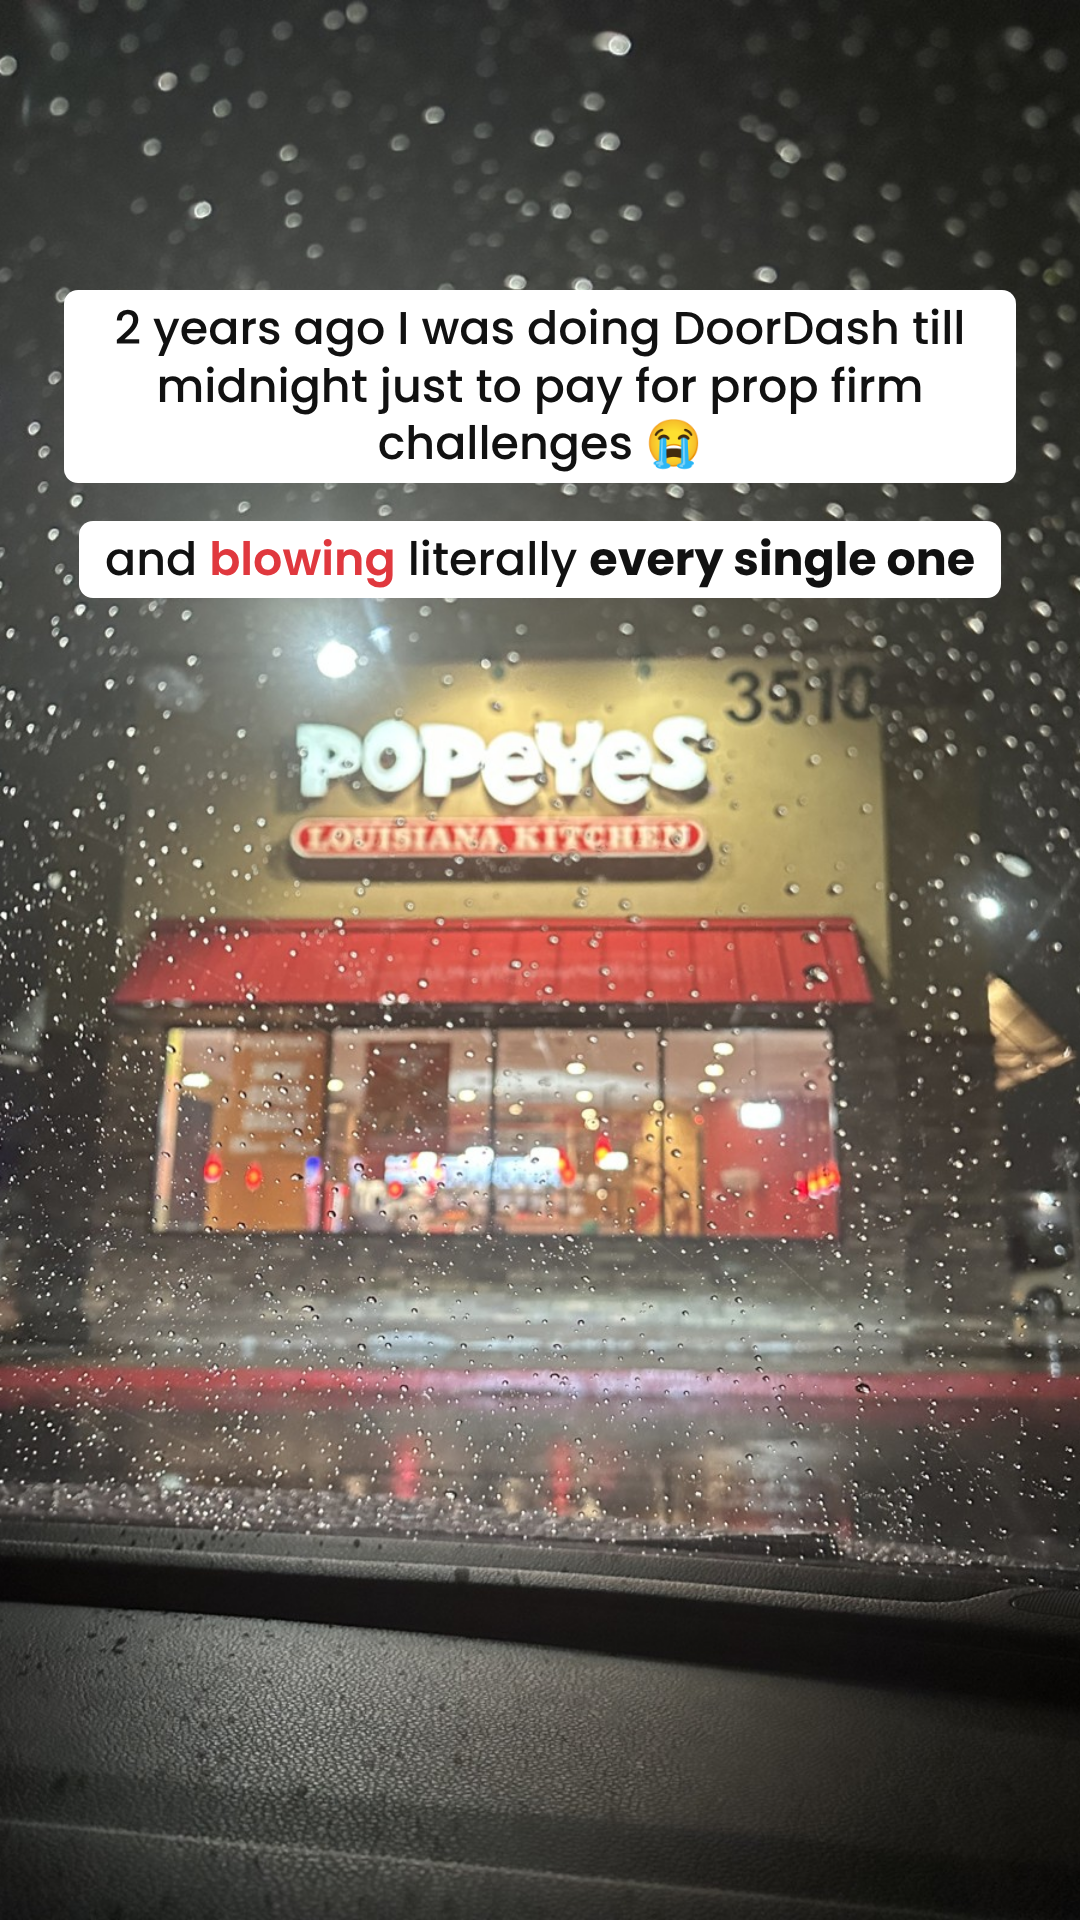
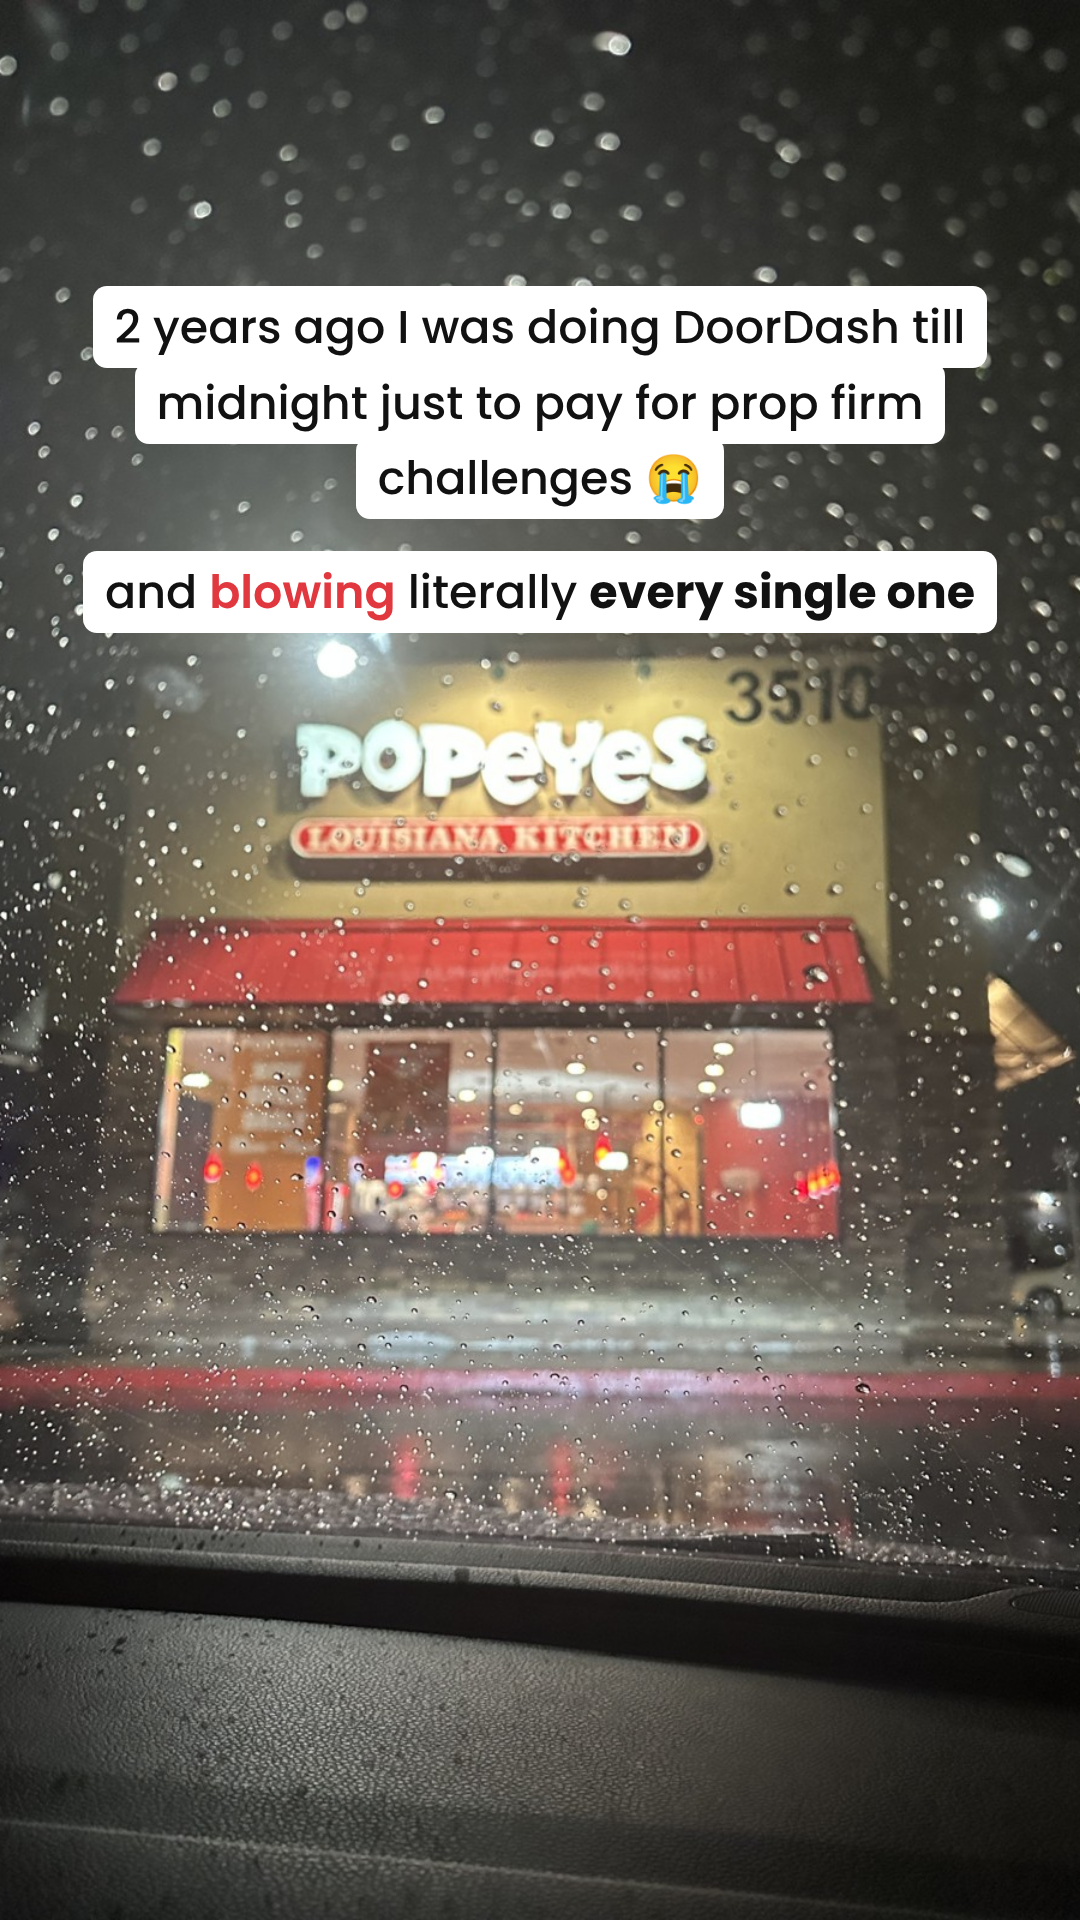
5 Mistakes: white boxes hug each wrapped line (IG highlight style)
Claude-Session: https://claude.ai/code/session_015aTEPXVumuzpUDhw5jFPqj

Changed region(s): [[0.0611, 0.125, 0.9472, 0.3438]]

diff --git a/sequences/2026-11-23_soft_5-mistakes-video/frames/04.html b/sequences/2026-11-23_soft_5-mistakes-video/frames/04.html
@@ -1,1 +1,1 @@
-<!doctype html><html><head><meta charset='utf-8'><link href='https://fonts.googleapis.com/css2?family=Poppins:wght@500;600;700&display=swap' rel='stylesheet'><link href='style.css' rel='stylesheet'></head><body><img class='bg' src='../../../03-backgrounds-larp/backgrounds/jean_ivan_11_1779493271_3902994701779115263_45494833154.jpg' style='object-position:50% 50%'><div class='shade' style=''></div><div class='stack' style='top:270px'><span class='l' style='font-size:42px'>over the past 2 years I went from <span class="pain">losing every dollar</span> to my name to owning one of my <span class="hl">dream cars</span> and living in a <span class="hl">high rise</span>, all from day trading</span><div class='gap'></div><span class='l' style='font-size:42px'>so I just recorded the video I wish I had when I started, so you can get there <b>way quicker</b> than I did</span></div><div class='stack' style='top:1230px'><span class='title'>"<span class="hl">5 Mistakes</span> Keeping You From Getting Paid By Prop Firms" 👇</span></div></body></html>
+<!doctype html><html><head><meta charset='utf-8'><link href='https://fonts.googleapis.com/css2?family=Poppins:wght@500;600;700&display=swap' rel='stylesheet'><link href='style.css' rel='stylesheet'></head><body><img class='bg' src='../../../03-backgrounds-larp/backgrounds/jean_ivan_11_1779493271_3902994701779115263_45494833154.jpg' style='object-position:50% 50%'><div class='shade' style=''></div><div class='stack' style='top:270px'><div class='row' style='font-size:42px'><span class='l'>over the past 2 years I went from <span class="pain">losing every dollar</span> to my name to owning one of my <span class="hl">dream cars</span> and living in a <span class="hl">high rise</span>, all from day trading</span></div><div class='gap'></div><div class='row' style='font-size:42px'><span class='l'>so I just recorded the video I wish I had when I started, so you can get there <b>way quicker</b> than I did</span></div></div><div class='stack' style='top:1230px'><span class='title'>"<span class="hl">5 Mistakes</span> Keeping You From Getting Paid By Prop Firms" 👇</span></div></body></html>

diff --git a/sequences/2026-11-23_soft_5-mistakes-video/frames/02.html b/sequences/2026-11-23_soft_5-mistakes-video/frames/02.html
@@ -1,1 +1,1 @@
-<!doctype html><html><head><meta charset='utf-8'><link href='https://fonts.googleapis.com/css2?family=Poppins:wght@500;600;700&display=swap' rel='stylesheet'><link href='style.css' rel='stylesheet'></head><body><img class='bg' src='../../../03-backgrounds-larp/backgrounds/jean_ivan_11_1783644862_3937820383109397696_45494833154.jpg' style='object-position:50% 50%'><div class='shade' style=''></div><div class='stack' style='top:290px'><span class='l' style='font-size:44px'>then I put <span class="hl">$4,000</span> on a live account. <b>every dollar I had</b></span><div class='gap'></div><span class='l' style='font-size:44px'>and <span class="pain">lost it all</span> in one session...</span><div class='gap'></div><span class='l' style='font-size:44px'>my mom looked at me and said "Ivan, quit. go to college."</span><div class='gap'></div><span class='l' style='font-size:44px'>but I believed in trading so <b>I said no.</b></span></div></body></html>
+<!doctype html><html><head><meta charset='utf-8'><link href='https://fonts.googleapis.com/css2?family=Poppins:wght@500;600;700&display=swap' rel='stylesheet'><link href='style.css' rel='stylesheet'></head><body><img class='bg' src='../../../03-backgrounds-larp/backgrounds/jean_ivan_11_1783644862_3937820383109397696_45494833154.jpg' style='object-position:50% 50%'><div class='shade' style=''></div><div class='stack' style='top:290px'><div class='row' style='font-size:44px'><span class='l'>then I put <span class="hl">$4,000</span> on a live account. <b>every dollar I had</b></span></div><div class='gap'></div><div class='row' style='font-size:44px'><span class='l'>and <span class="pain">lost it all</span> in one session...</span></div><div class='gap'></div><div class='row' style='font-size:44px'><span class='l'>my mom looked at me and said "Ivan, quit. go to college."</span></div><div class='gap'></div><div class='row' style='font-size:44px'><span class='l'>but I believed in trading so <b>I said no.</b></span></div></div></body></html>

diff --git a/sequences/2026-11-23_soft_5-mistakes-video/frames/03.html b/sequences/2026-11-23_soft_5-mistakes-video/frames/03.html
@@ -1,1 +1,1 @@
-<!doctype html><html><head><meta charset='utf-8'><link href='https://fonts.googleapis.com/css2?family=Poppins:wght@500;600;700&display=swap' rel='stylesheet'><link href='style.css' rel='stylesheet'></head><body><img class='bg' src='../../../03-backgrounds-larp/backgrounds/jean_ivan_11_1779493271_3902994685639333655_45494833154.jpg' style='object-position:50% 50%'><div class='shade' style=''></div><div class='stack' style='top:280px'><span class='l' style='font-size:44px'>the crazy part?? I wasn't missing info</span><div class='gap'></div><span class='l' style='font-size:44px'>I watched every video, bought every course and knew all the concepts</span><div class='gap'></div><span class='l' style='font-size:44px'>I was just doing <b>5 things wrong</b> every single day</span></div><div class='stack' style='bottom:340px'><span class='l' style='font-size:46px'>and I bet you're doing <b>at least 3 of them</b> rn...</span></div></body></html>
+<!doctype html><html><head><meta charset='utf-8'><link href='https://fonts.googleapis.com/css2?family=Poppins:wght@500;600;700&display=swap' rel='stylesheet'><link href='style.css' rel='stylesheet'></head><body><img class='bg' src='../../../03-backgrounds-larp/backgrounds/jean_ivan_11_1779493271_3902994685639333655_45494833154.jpg' style='object-position:50% 50%'><div class='shade' style=''></div><div class='stack' style='top:280px'><div class='row' style='font-size:44px'><span class='l'>the crazy part?? I wasn't missing info</span></div><div class='gap'></div><div class='row' style='font-size:44px'><span class='l'>I watched every video, bought every course and knew all the concepts</span></div><div class='gap'></div><div class='row' style='font-size:44px'><span class='l'>I was just doing <b>5 things wrong</b> every single day</span></div></div><div class='stack' style='bottom:340px'><div class='row' style='font-size:46px'><span class='l'>and I bet you're doing <b>at least 3 of them</b> rn...</span></div></div></body></html>

diff --git a/sequences/2026-11-23_soft_5-mistakes-video/frames/01.html b/sequences/2026-11-23_soft_5-mistakes-video/frames/01.html
@@ -1,1 +1,1 @@
-<!doctype html><html><head><meta charset='utf-8'><link href='https://fonts.googleapis.com/css2?family=Poppins:wght@500;600;700&display=swap' rel='stylesheet'><link href='style.css' rel='stylesheet'></head><body><img class='bg' src='../../2026-11-11_highlight_about-me/assets/popeyes.jpg' style='object-position:50% 60%'><div class='shade' style=''></div><div class='stack' style='top:290px'><span class='l' style='font-size:46px'>2 years ago I was doing DoorDash till midnight just to pay for prop firm challenges 😭</span><div class='gap'></div><span class='l' style='font-size:46px'>and <span class="pain">blowing</span> literally <b>every single one</b></span></div></body></html>
+<!doctype html><html><head><meta charset='utf-8'><link href='https://fonts.googleapis.com/css2?family=Poppins:wght@500;600;700&display=swap' rel='stylesheet'><link href='style.css' rel='stylesheet'></head><body><img class='bg' src='../../2026-11-11_highlight_about-me/assets/popeyes.jpg' style='object-position:50% 60%'><div class='shade' style=''></div><div class='stack' style='top:290px'><div class='row' style='font-size:46px'><span class='l'>2 years ago I was doing DoorDash till midnight just to pay for prop firm challenges 😭</span></div><div class='gap'></div><div class='row' style='font-size:46px'><span class='l'>and <span class="pain">blowing</span> literally <b>every single one</b></span></div></div></body></html>

diff --git a/sequences/2026-11-23_soft_5-mistakes-video/frames/style.css b/sequences/2026-11-23_soft_5-mistakes-video/frames/style.css
@@ -2,7 +2,8 @@ html,body{margin:0;width:1080px;height:1920px;overflow:hidden;background:#000;po
 .bg{position:absolute;inset:0;width:1080px;height:1920px;object-fit:cover}
 .shade{position:absolute;inset:0}
 .stack{position:absolute;left:0;right:0;display:flex;flex-direction:column;align-items:center;gap:10px;padding:0 40px;z-index:2}
-.l{background:#fff;color:#111;font:500 44px/1.25 'Poppins',sans-serif;padding:10px 26px;border-radius:14px;text-align:center;max-width:900px}
+.row{max-width:920px;text-align:center;line-height:1.62}
+.l{display:inline;background:#fff;color:#111;font-family:'Poppins',sans-serif;font-weight:500;line-height:1.62;padding:9px 22px;border-radius:14px;-webkit-box-decoration-break:clone;box-decoration-break:clone}
 .gap{height:18px}
 b{font-weight:700}
 .title{background:#111;color:#fff;font:700 50px/1.2 'Poppins',sans-serif;padding:18px 30px;border-radius:16px;text-align:center;max-width:960px;margin-top:6px}

diff --git a/brand.md b/brand.md
@@ -57,3 +57,4 @@ Example: 2026-11-12 · soft · "free-guide" sequence: 38 DMs. Poll on frame 1 wo
 - 2026-11-23 · soft · 5 Mistakes video: user rejected old selfie/laptop/high-rise backgrounds for stories 2–4 and asked for **LARP car shots** instead. Kept the Popeyes DoorDash photo on story 1. Default to car/lifestyle LARP behind text-heavy story frames.
 - 2026-11-23 · 5 Mistakes: don't fill a sequence with random car pics. Use **successful Jean in the shot** (elevator, lobby, pier, restaurant) for most LARP frames, with at most 1 car-only frame.
 - 2026-11-23 · 5 Mistakes: **one box per full sentence** (let it wrap inside the box). Don't chop sentences into many tiny boxes. Use bold sparingly on 1 key phrase per story. Grammar: "I watched" not "I'd watched".
+- 2026-11-23 · White text boxes must **hug each line** (Instagram highlight style: inline span with box-decoration-break clone), never a fixed rectangle with empty space beside short lines.
